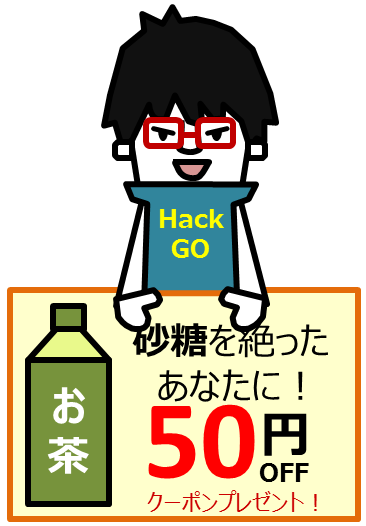
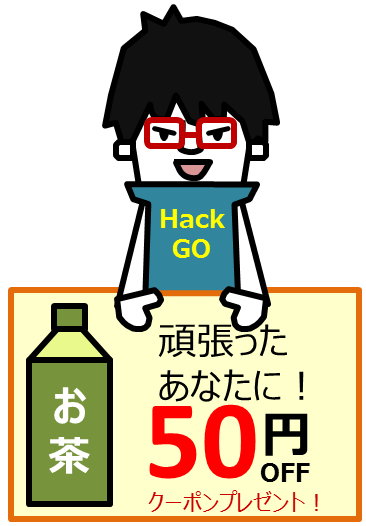
応援メッセージをランダムに変更

diff --git a/www/js/challenger.js b/www/js/challenger.js
@@ -487,7 +487,8 @@ myApp.factory('challenger',function($http){
             .fetchAll()
             .then(function(results){
                 if(results.length>0) {
-                    success(results[0]);
+                    var num = (new Date()).getSeconds() % results.length;
+                    success(results[num]);
                 }else{
                    success("やってやれないことはない!");
                 }

diff --git a/www/cheerme.html b/www/cheerme.html
@@ -9,7 +9,7 @@
     <ons-row align="bottom">
         <ons-col style="margin:10px;"> 
             <fieldset style="border-radius: 10px;"><legend><strong><font color="#ff0000" >応援メッセージ!!!</font></strong></legend>
-                <div> {{ctrl.message}} </div>
+                <div> {{ctrl.message}}  </div>
             </fieldset>
        </ons-col>
     </ons-row>　

diff --git a/www/hagemasu.html b/www/hagemasu.html
@@ -5,7 +5,7 @@
     </ons-toolbar>
 
     <div align="center">
-        <img src="img/hagemasu.png" style="width: 60%;"/>
+        <img src="img/hagemasu.png" style="width: 90%;"/>
     </div>
     <ons-row>
         <ons-col style="margin:10px;"> 
